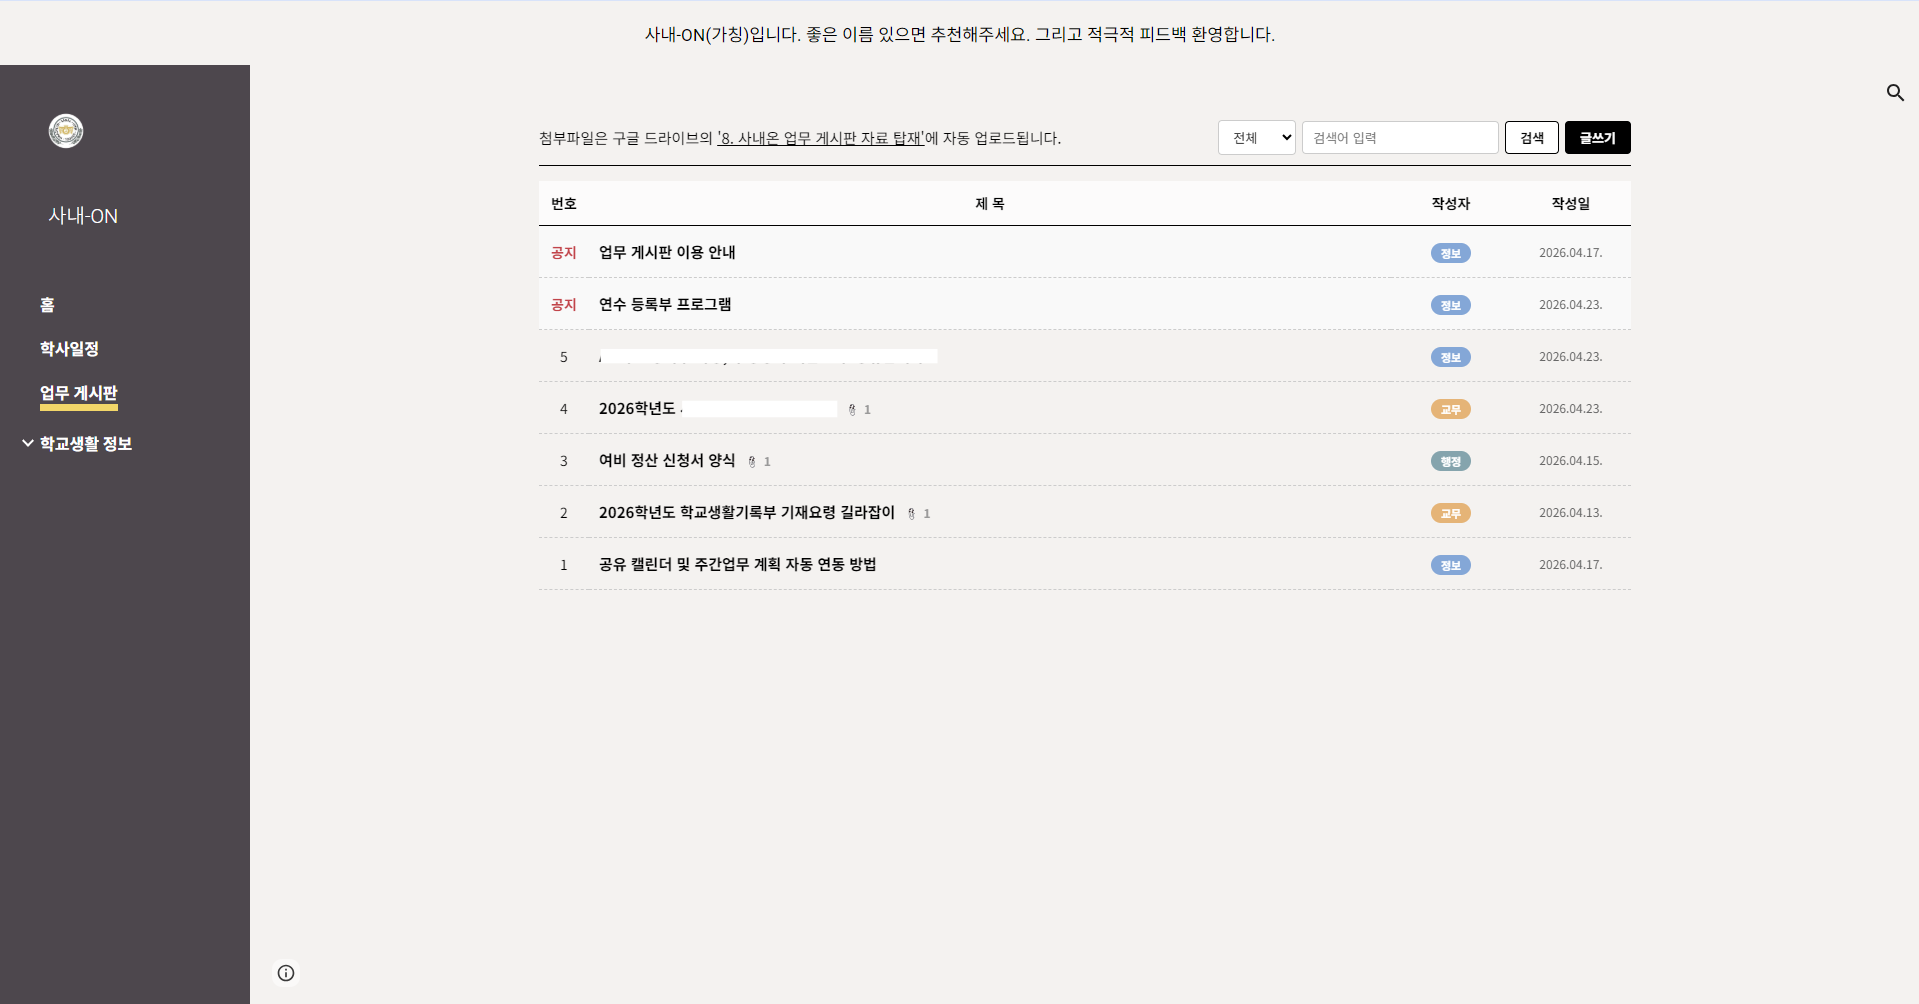
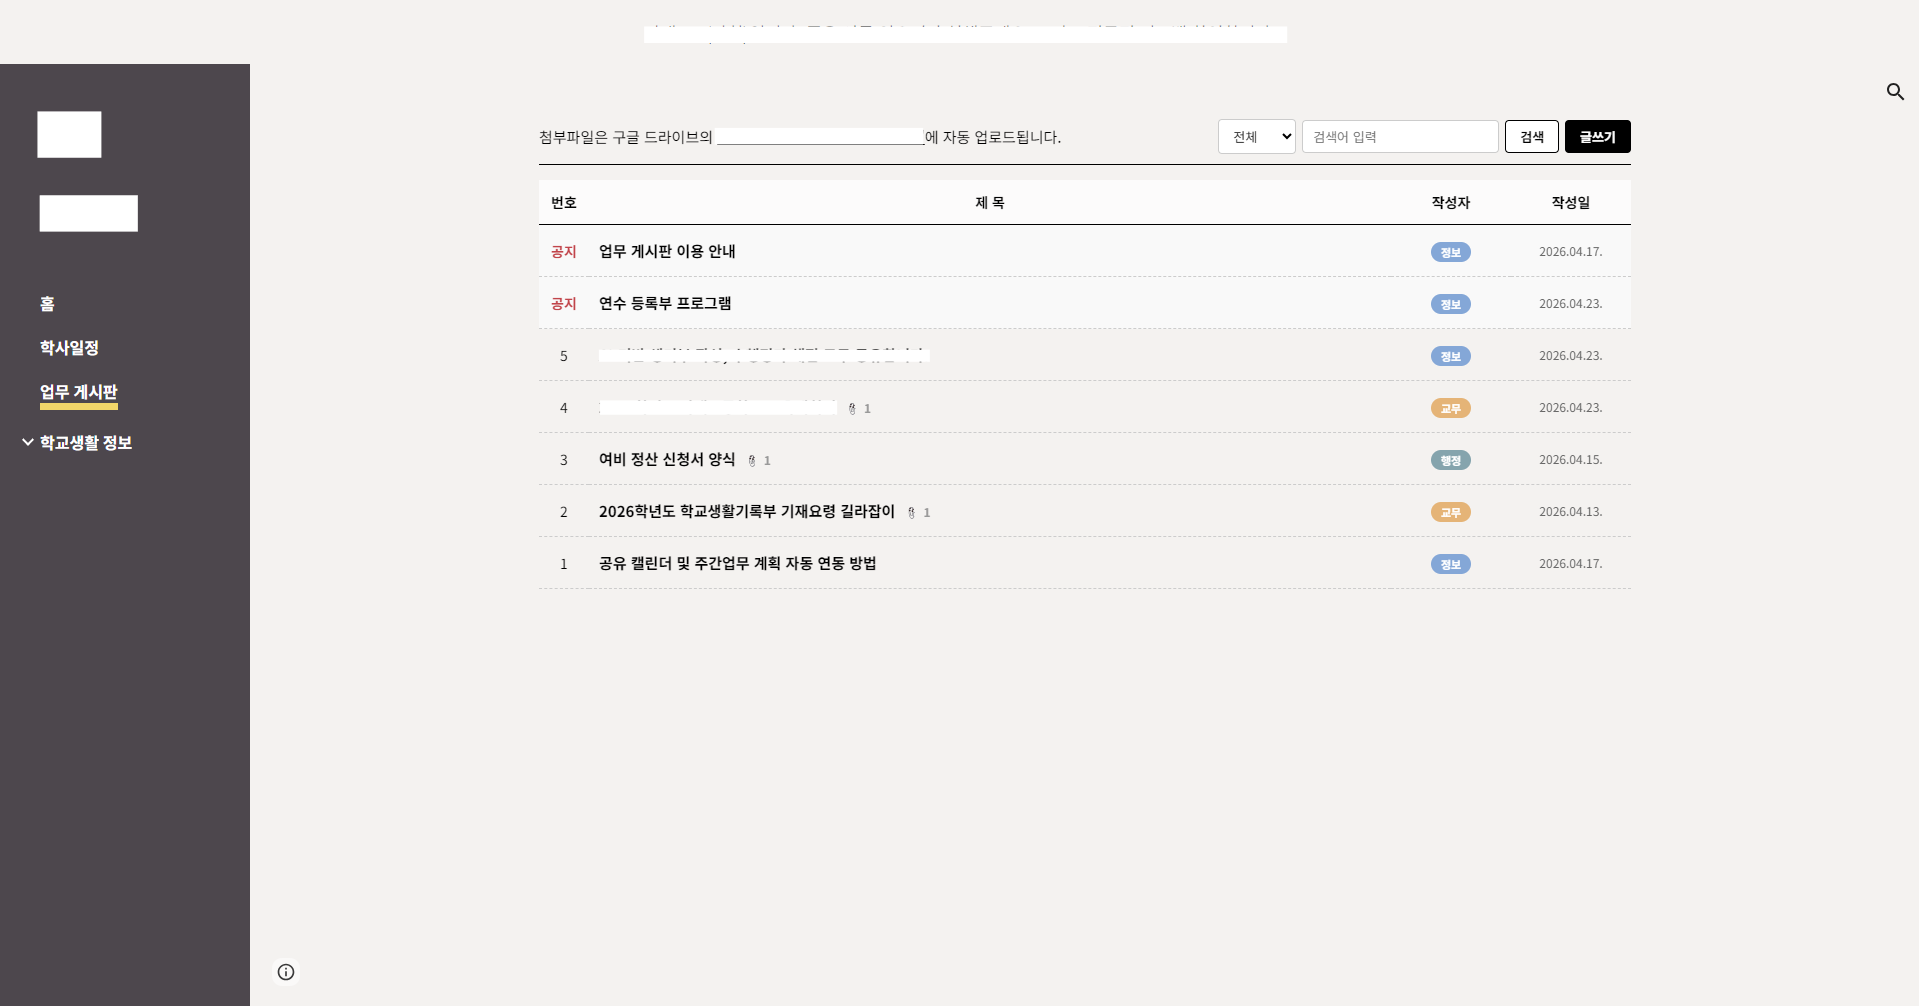
업무 게시판·연락망 이미지 갱신 + 하단 안내문 '실제 화면이에요'로 변경

diff --git a/index.html b/index.html
@@ -2253,7 +2253,7 @@
       </div>
 
       <div class="dashboard-note">
-        ※ 위 화면은 <strong>가짜 데이터로 다시 그린 모의 이미지</strong>예요. 진짜 페이지는 학교 구글 계정으로만 열립니다.<br>
+        ※ 위 화면들은 <strong>매일 출근해서 보는 실제 화면</strong>이에요 — 주요 정보만 가려두었습니다. 실제 페이지는 학교 구글 계정으로만 열려요.<br>
         받아가신 코드로 학교 환경에 맞춰보시다 막히는 부분이 있으면 편하게 이메일 주세요.
       </div>
 
